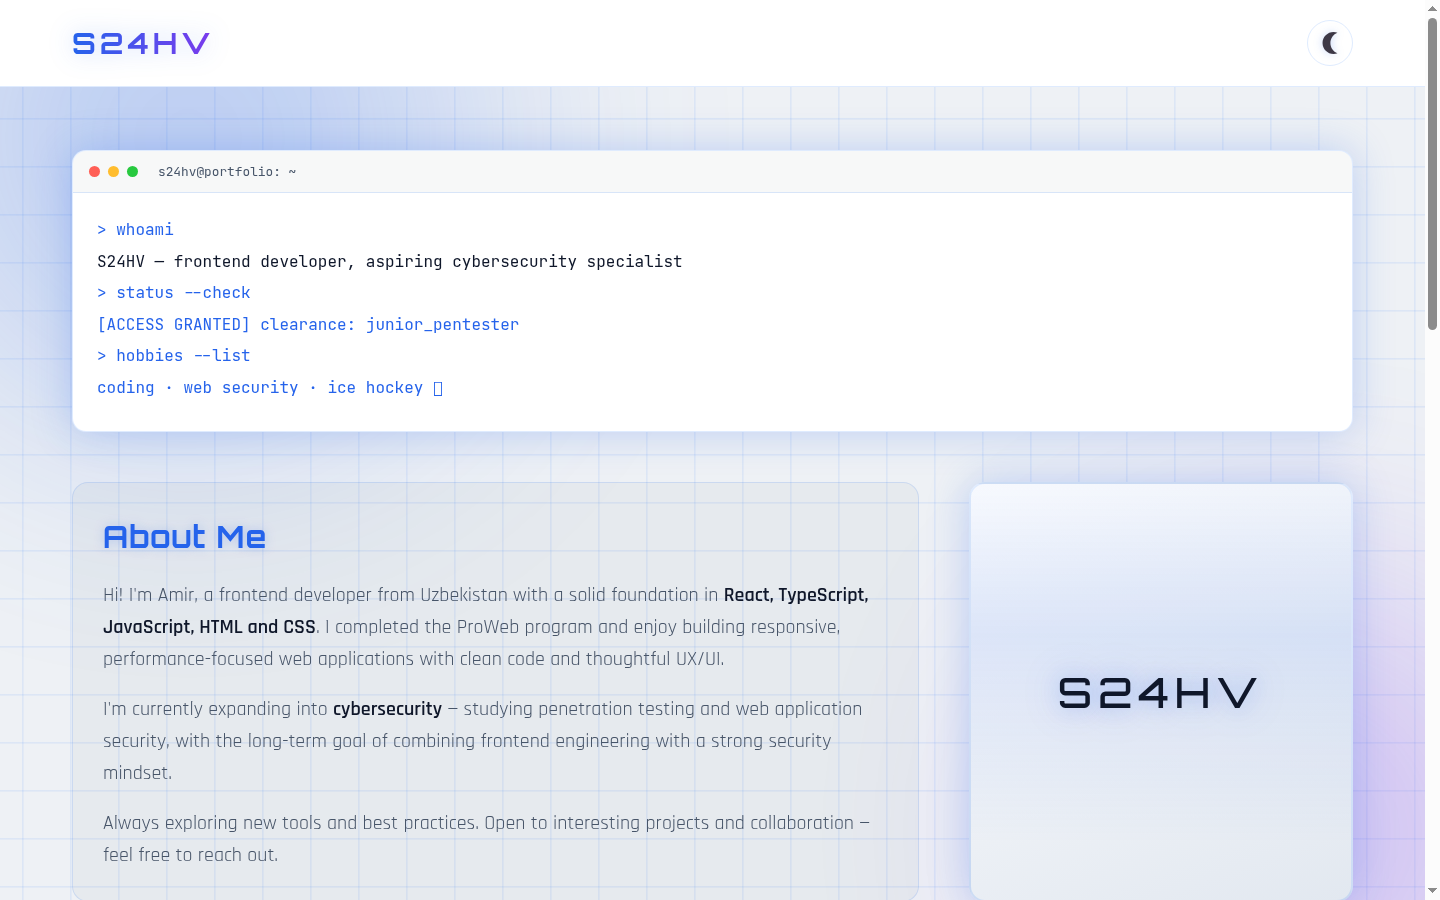
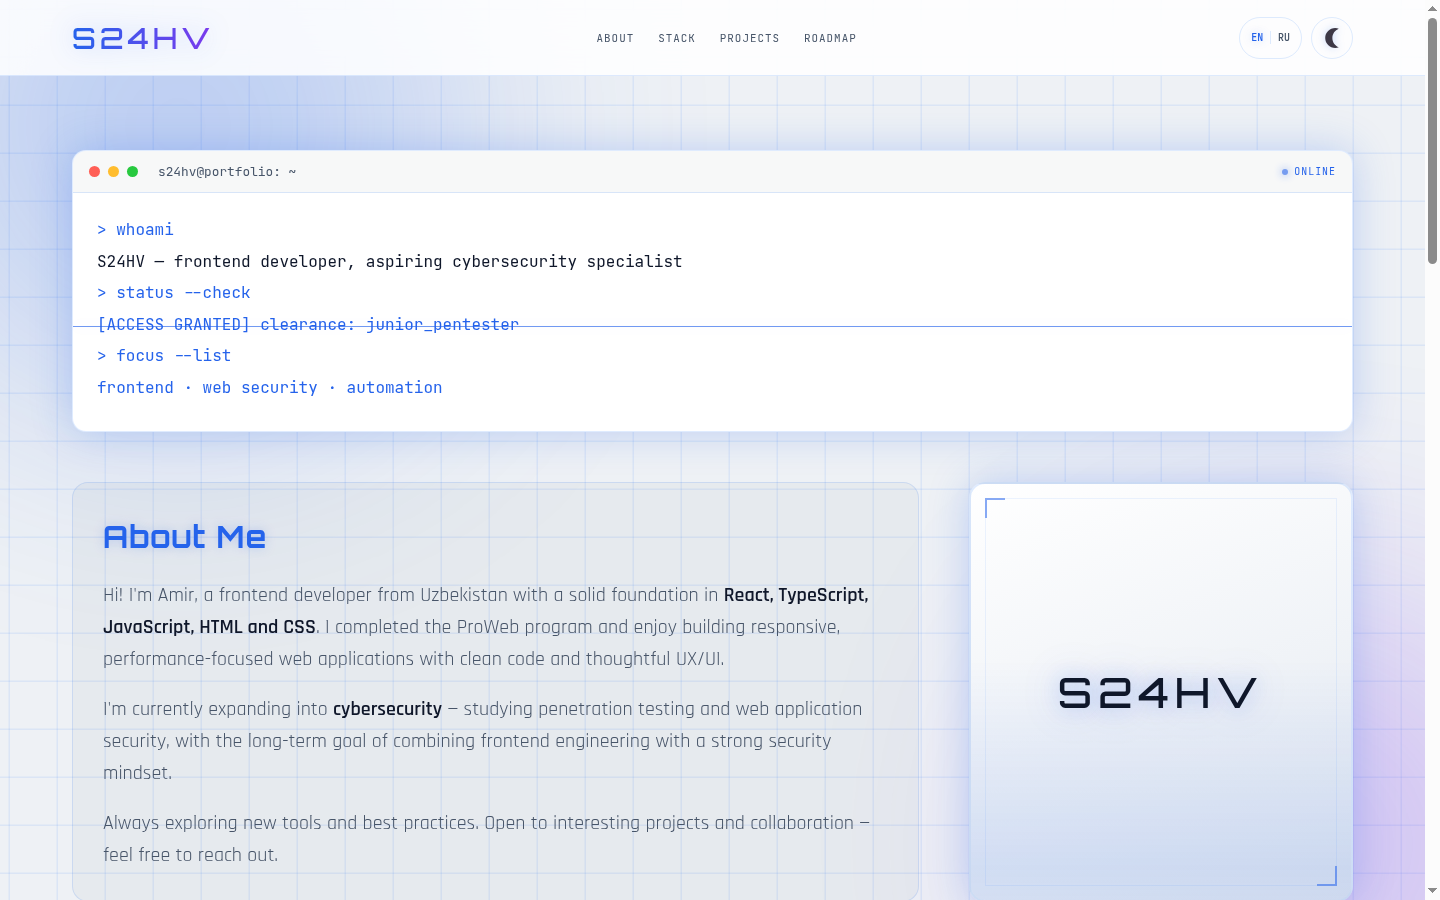
Update README

diff --git a/README.md b/README.md
@@ -10,74 +10,56 @@
 [![Redux Toolkit](https://img.shields.io/badge/Redux_Toolkit-2.5-764ABC?style=for-the-badge&logo=redux&logoColor=white)](https://redux-toolkit.js.org)
 [![Sass](https://img.shields.io/badge/Sass-1.83-CC6699?style=for-the-badge&logo=sass&logoColor=white)](https://sass-lang.com)
 
-[![Deploy](https://github.com/S24HV/Portfolio/actions/workflows/deploy.yml/badge.svg)](https://github.com/S24HV/Portfolio/actions)
-[![License: MIT](https://img.shields.io/badge/License-MIT-green.svg)](LICENSE)
-
 ### [→ Live demo](https://s24hv.github.io/Portfolio/)
 
-<img src="docs/screenshots/hero-dark.png" alt="S24HV portfolio — terminal hero section in dark theme" width="100%" />
+<img src="docs/screenshots/hero-dark.png" alt="Terminal hero section in dark theme" width="100%" />
 
 </div>
 
 ---
 
-## What it is
+## About
 
-A single-page portfolio with a hacker-terminal aesthetic. Instead of hardcoding a project list,
-the site pulls repositories, languages and READMEs straight from the GitHub REST API — so the
-content stays up to date without touching the code.
+Single-page portfolio of **Amir Sukhov** — frontend developer from Uzbekistan, moving into web application security.
+The page opens with a boot sequence, greets you with an interactive terminal, and pulls repositories,
+languages and READMEs straight from the GitHub API, so the content stays up to date without redeploys.
+
+## Features
 
 | | |
 |---|---|
-| **Boot sequence** | Multilingual `INITIALIZING ACCESS…` splash before the app fades in |
-| **Terminal hero** | Typewriter output of `whoami`, `status --check`, `hobbies --list` |
-| **Dark / light theme** | Redux Toolkit slice persisted to `localStorage` |
-| **Tech stack** | Language bars computed live from the languages of every public repo |
-| **Projects gate** | Cards unlock behind `$ ./access_repositories.sh`, with inline README rendering |
-| **Roadmap** | Timeline from frontend development towards cybersecurity |
-
----
+| **Boot sequence** | Animated terminal boot screen on first load |
+| **Terminal hero** | `whoami` / `status --check` / `focus --list` typed out live |
+| **Dark / light theme** | Redux Toolkit slice, saved in `localStorage` |
+| **EN / RU** | Full interface translation, language remembered between visits |
+| **Tech stack orbit** | Animated core with skills orbiting around it |
+| **Projects from GitHub** | Repositories, per-language filters, stars/forks/issues counters |
+| **Inline README viewer** | `LOAD README` renders any repo's README with `react-markdown` |
+| **Roadmap** | Learning timeline: frontend → scripting → pentesting → security |
 
 ## Screenshots
 
-<table>
-  <tr>
-    <td width="50%"><img src="docs/screenshots/hero-dark.png" alt="Hero and About sections in dark theme" /></td>
-    <td width="50%"><img src="docs/screenshots/hero-light.png" alt="Hero and About sections in light theme" /></td>
-  </tr>
-  <tr>
-    <td align="center"><b>Dark theme</b></td>
-    <td align="center"><b>Light theme</b></td>
-  </tr>
-  <tr>
-    <td><img src="docs/screenshots/techstack.png" alt="Tech stack bars generated from GitHub language statistics" /></td>
-    <td><img src="docs/screenshots/projects.png" alt="Project cards loaded from the GitHub API" /></td>
-  </tr>
-  <tr>
-    <td align="center"><b>Tech stack — generated from GitHub</b></td>
-    <td align="center"><b>Projects — loaded on demand</b></td>
-  </tr>
-</table>
+| Dark theme | Light theme |
+|---|---|
+| <img src="docs/screenshots/hero-dark.png" alt="Dark theme" width="100%" /> | <img src="docs/screenshots/hero-light.png" alt="Light theme" width="100%" /> |
 
-<p align="center">
-  <img src="docs/screenshots/roadmap.png" alt="Roadmap timeline from frontend development to cybersecurity" width="85%" />
-</p>
+| Tech stack | Projects |
+|---|---|
+| <img src="docs/screenshots/techstack.png" alt="Tech stack section" width="100%" /> | <img src="docs/screenshots/projects.png" alt="Projects section" width="100%" /> |
 
----
+<img src="docs/screenshots/roadmap.png" alt="Roadmap section" width="100%" />
 
 ## Tech stack
 
-| Layer | Choice |
+| Layer | Tools |
 |---|---|
-| UI | React 18 + TypeScript 5.6 |
+| UI | React 18.3, TypeScript 5.6 |
 | Build | Vite 6 |
-| State | Redux Toolkit + React Redux (theme slice) |
-| Styling | SCSS, CSS variables, Orbitron / Rajdhani / JetBrains Mono |
+| State | Redux Toolkit 2.5, React Redux 9 |
+| Styling | Sass / SCSS modules, custom CSS variables |
 | Data | axios → GitHub REST API |
 | Markdown | react-markdown + remark-gfm |
-| Deploy | GitHub Actions → GitHub Pages (`gh-pages` script as fallback) |
-
----
+| Deploy | gh-pages → GitHub Pages |
 
 ## Quick start
 
@@ -88,69 +70,43 @@ npm install
 npm run dev
 ```
 
-The dev server starts at **http://localhost:5173/Portfolio/** (the `/Portfolio/` base comes from
-`vite.config.ts` and matches the GitHub Pages path).
+Open http://localhost:5173/Portfolio/
 
 ### Scripts
 
 | Command | Description |
 |---|---|
-| `npm run dev` | Vite dev server with HMR |
-| `npm run build` | Type-check (`tsc -b`) and build to `dist/` |
+| `npm run dev` | Dev server with HMR |
+| `npm run build` | Type-check and build into `dist/` |
 | `npm run preview` | Serve the production build locally |
 | `npm run lint` | ESLint over the whole project |
-| `npm run deploy` | Manual publish of `dist/` to GitHub Pages |
-
-### Optional: GitHub token
-
-Unauthenticated GitHub API calls are limited to 60 requests/hour, and the site makes several per
-repository. To avoid rate limiting during development, create a `.env.local` with a read-only
-token:
-
-```bash
-VITE_GITHUB_TOKEN=ghp_your_read_only_token
-```
-
-Without it everything still works — you may just hit `403` responses after a few reloads.
-
----
+| `npm run deploy` | Build and publish `dist/` to the `gh-pages` branch |
 
 ## Project structure
 
 ```text
 src/
-├── assets/                 # avatar and SVG icons (github, mail, tg, sun, moon)
-├── components/             # one .tsx + one .scss per section
-│   ├── BootScreen.tsx      # access-granted splash
-│   ├── Header.tsx          # logo + theme toggle
-│   ├── Hero.tsx            # typewriter terminal
-│   ├── About.tsx           # bio and contacts
-│   ├── TechStack.tsx       # language bars from the GitHub API
-│   ├── Projects.tsx        # repo cards + README viewer
-│   ├── Roadmap.tsx         # learning timeline
-│   └── BottomBar.tsx       # floating contact bar
-├── services/github.ts      # repos, languages, README, OG preview helpers
-├── store/                  # Redux store + theme slice (localStorage persisted)
-├── App.tsx                 # section composition and projects gate
-└── global.styles.scss      # theme variables, grid background, animations
+├── components/      Header, BootScreen, Hero, About, TechStack, Projects, Roadmap, BottomBar
+├── services/        github.ts (GitHub API + cache), language.ts (i18n)
+├── store/           Redux Toolkit store and theme slice
+├── assets/
+├── global.styles.scss
+└── App.tsx
+docs/screenshots/    Images used in this README
 ```
-
----
 
 ## Deployment
 
-Every push to `main` triggers [`.github/workflows/deploy.yml`](.github/workflows/deploy.yml):
-Node 20 → `npm ci` → `npm run build` → upload `dist/` → publish to GitHub Pages.
-Nothing else to configure beyond enabling Pages with the *GitHub Actions* source.
+```bash
+npm run deploy
+```
 
----
+Builds the project and pushes `dist/` to the `gh-pages` branch; GitHub Pages serves it at
+[s24hv.github.io/Portfolio](https://s24hv.github.io/Portfolio/).
+The base path is set in `vite.config.ts` (`base: "/Portfolio"`) — keep it in sync with the repository name.
 
 ## Contact
 
-<p align="left">
-  <a href="mailto:amirsuhov@gmail.com"><img src="https://img.shields.io/badge/Email-amirsuhov@gmail.com-EA4335?style=flat-square&logo=gmail&logoColor=white" alt="Email" /></a>
-  <a href="https://t.me/S_24_HV"><img src="https://img.shields.io/badge/Telegram-@S__24__HV-26A5E4?style=flat-square&logo=telegram&logoColor=white" alt="Telegram" /></a>
-  <a href="https://github.com/S24HV"><img src="https://img.shields.io/badge/GitHub-S24HV-181717?style=flat-square&logo=github&logoColor=white" alt="GitHub" /></a>
-</p>
-
-Licensed under the [MIT License](LICENSE) — feel free to fork it as a base for your own portfolio.
+[![Email](https://img.shields.io/badge/amirsuhov@gmail.com-EA4335?style=for-the-badge&logo=gmail&logoColor=white)](mailto:amirsuhov@gmail.com)
+[![Telegram](https://img.shields.io/badge/@S__24__HV-26A5E4?style=for-the-badge&logo=telegram&logoColor=white)](https://t.me/S_24_HV)
+[![GitHub](https://img.shields.io/badge/S24HV-181717?style=for-the-badge&logo=github&logoColor=white)](https://github.com/S24HV)
